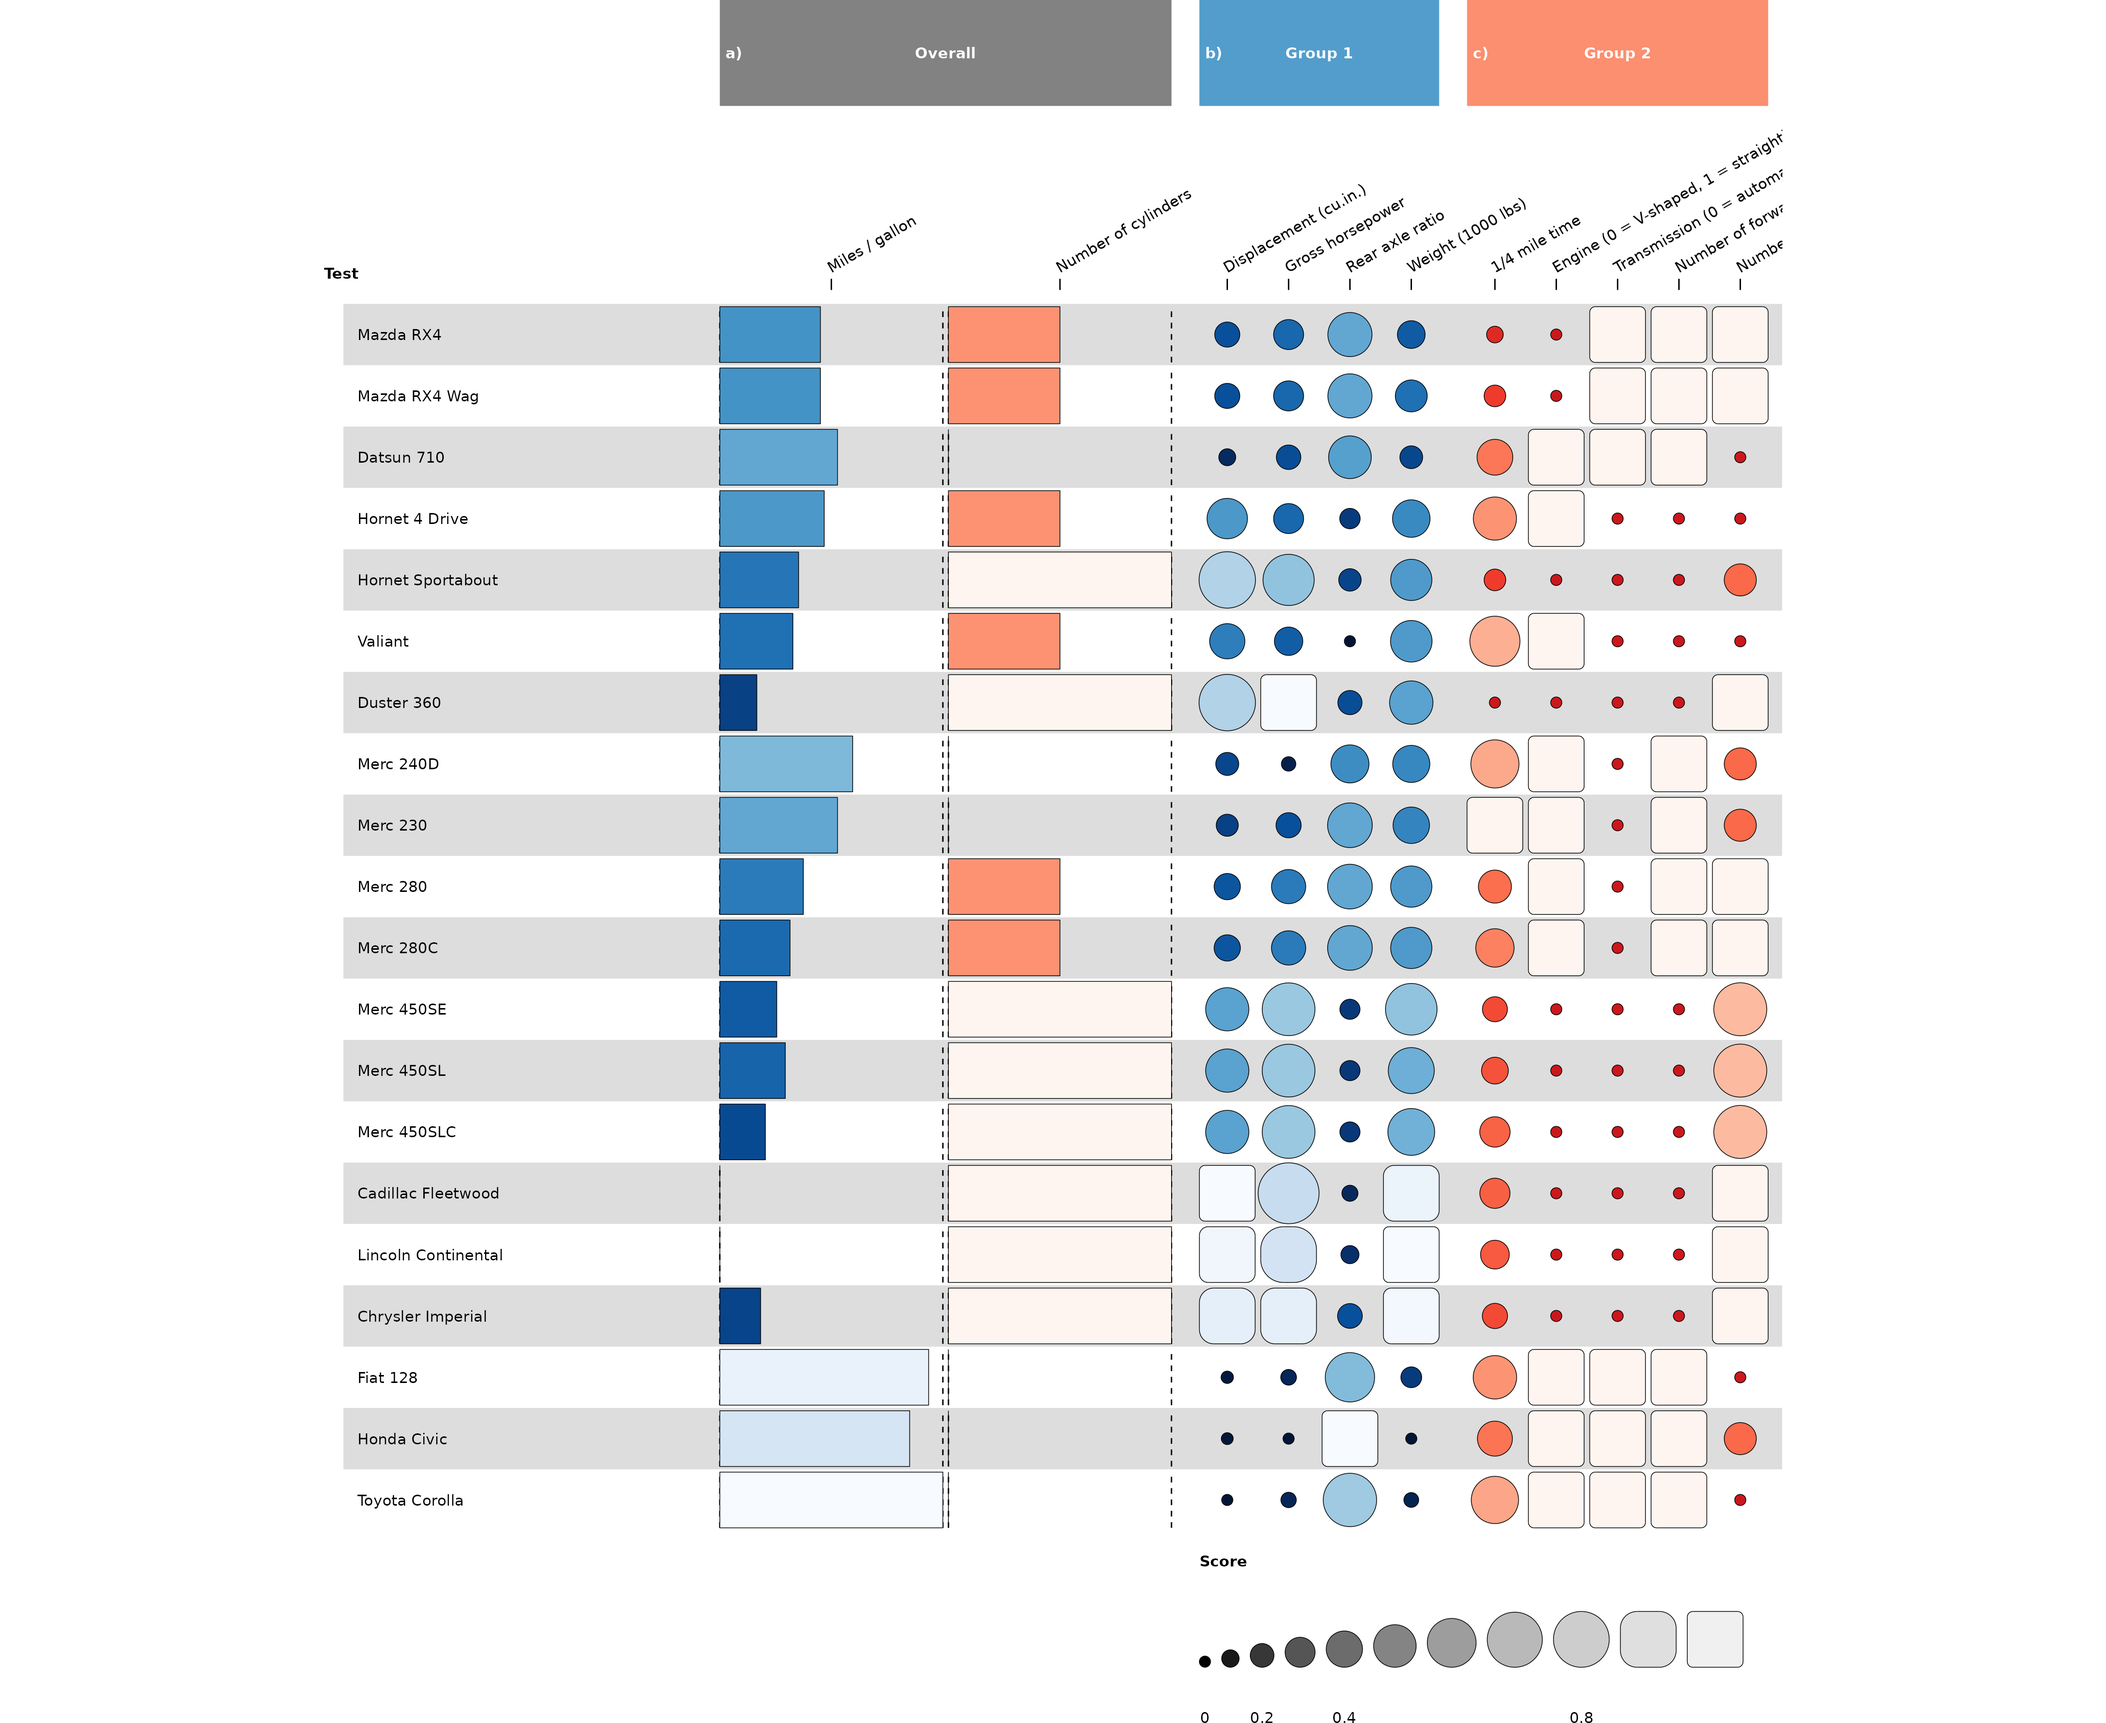
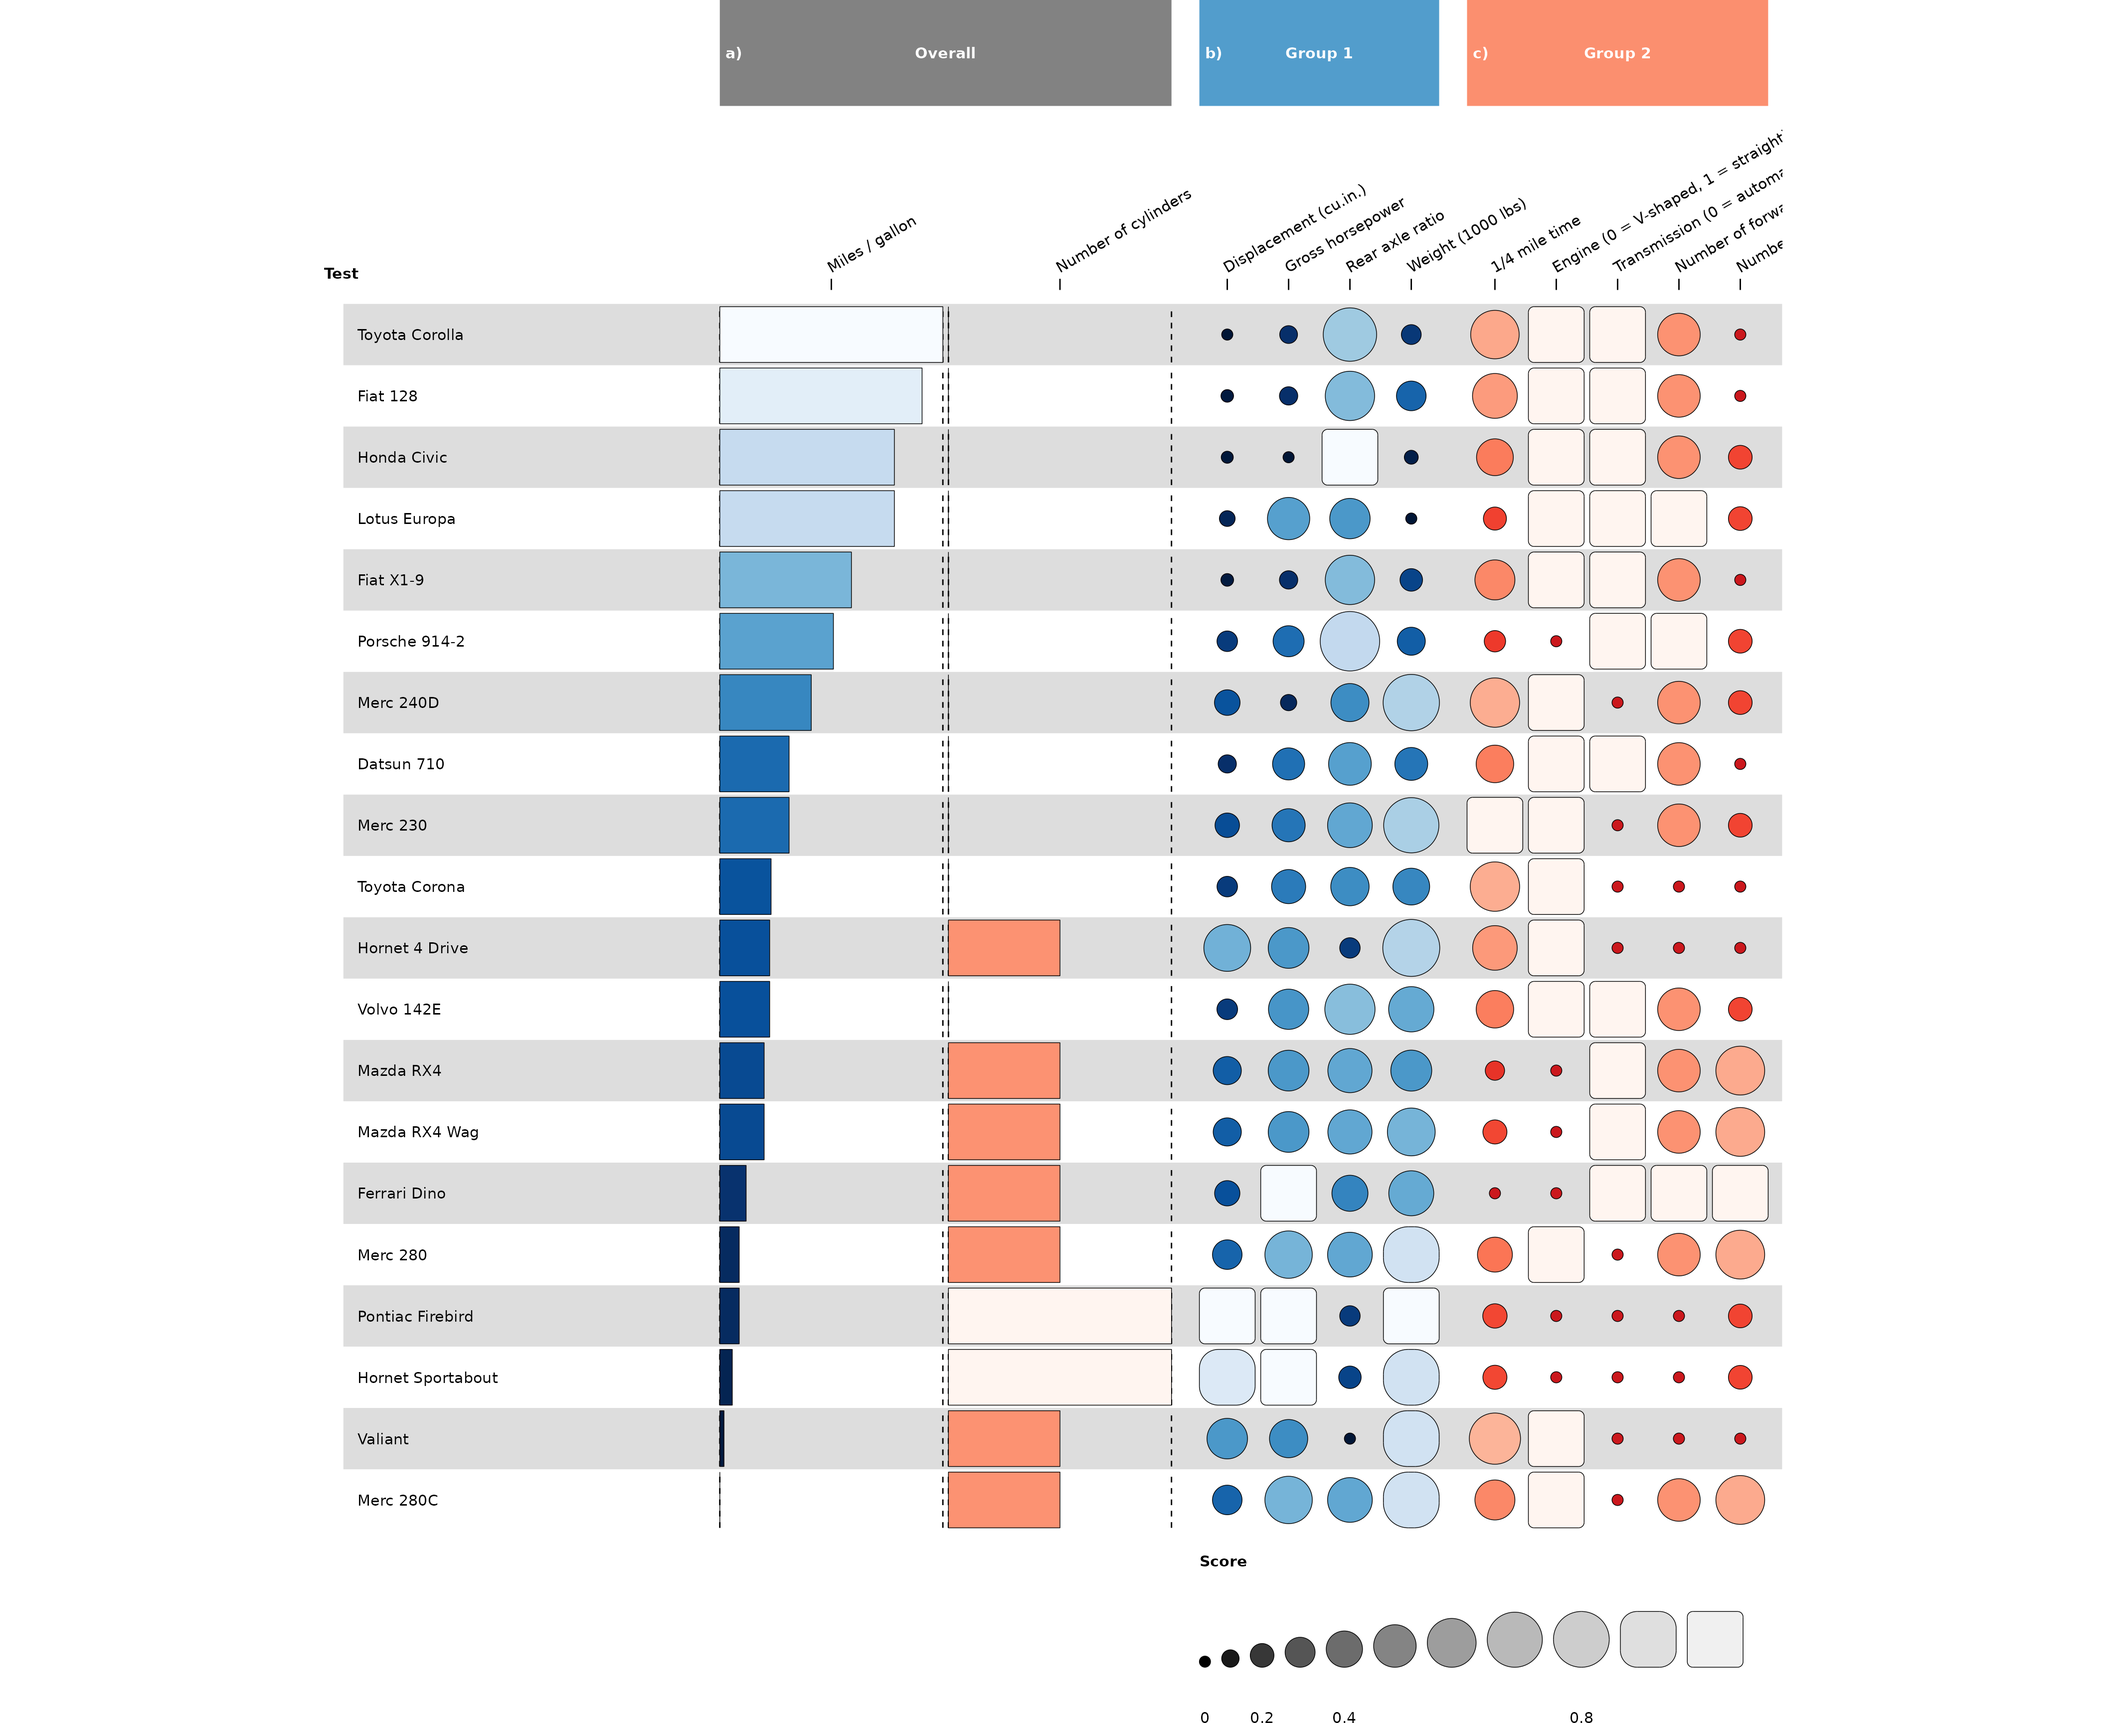
Deploying to gh-pages from @ rcannood/funkyheatmap@4337c4fde194a462f956549b947b045cbd9b7ef0 🚀

diff --git a/articles/mtcars.html b/articles/mtcars.html
@@ -26,7 +26,7 @@
     
     <a class="navbar-brand me-2" href="../index.html">funkyheatmap</a>
 
-    <small class="nav-text text-muted me-auto" data-bs-toggle="tooltip" data-bs-placement="bottom" title="">0.0.0.9000</small>
+    <small class="nav-text text-muted me-auto" data-bs-toggle="tooltip" data-bs-placement="bottom" title="">0.1.0</small>
 
     
     <button class="navbar-toggler" type="button" data-bs-toggle="collapse" data-bs-target="#navbar" aria-controls="navbar" aria-expanded="false" aria-label="Toggle navigation">
@@ -82,6 +82,7 @@
 <span></span>
 <span><span class="va">data</span> <span class="op">&lt;-</span> <span class="va">mtcars</span> <span class="op"><a href="https://magrittr.tidyverse.org/reference/pipe.html" class="external-link">%&gt;%</a></span> </span>
 <span>  <span class="fu"><a href="https://tibble.tidyverse.org/reference/rownames.html" class="external-link">rownames_to_column</a></span><span class="op">(</span><span class="st">"id"</span><span class="op">)</span> <span class="op"><a href="https://magrittr.tidyverse.org/reference/pipe.html" class="external-link">%&gt;%</a></span></span>
+<span>  <span class="fu"><a href="https://dplyr.tidyverse.org/reference/arrange.html" class="external-link">arrange</a></span><span class="op">(</span><span class="fu"><a href="https://dplyr.tidyverse.org/reference/desc.html" class="external-link">desc</a></span><span class="op">(</span><span class="va">mpg</span><span class="op">)</span><span class="op">)</span> <span class="op"><a href="https://magrittr.tidyverse.org/reference/pipe.html" class="external-link">%&gt;%</a></span></span>
 <span>  <span class="fu"><a href="https://rdrr.io/r/utils/head.html" class="external-link">head</a></span><span class="op">(</span><span class="fl">20</span><span class="op">)</span></span></code></pre></div>
 <p>We can plot this data frame without any additional formatting, though
 it doesn’t look very nice:</p>

diff --git a/authors.html b/authors.html
@@ -10,7 +10,7 @@
     
     <a class="navbar-brand me-2" href="index.html">funkyheatmap</a>
 
-    <small class="nav-text text-muted me-auto" data-bs-toggle="tooltip" data-bs-placement="bottom" title="">0.0.0.9000</small>
+    <small class="nav-text text-muted me-auto" data-bs-toggle="tooltip" data-bs-placement="bottom" title="">0.1.0</small>
 
     
     <button class="navbar-toggler" type="button" data-bs-toggle="collapse" data-bs-target="#navbar" aria-controls="navbar" aria-expanded="false" aria-label="Toggle navigation">
@@ -60,13 +60,13 @@
 
       <p>Cannoodt R, Saelens W (2022).
 <em>funkyheatmap: Generating funky heatmaps for benchmarks</em>.
-R package version 0.0.0.9000, <a href="https://rcannood.github.io/funkyheatmap/">https://rcannood.github.io/funkyheatmap/</a>. 
+R package version 0.1.0, <a href="https://rcannood.github.io/funkyheatmap/">https://rcannood.github.io/funkyheatmap/</a>. 
 </p>
       <pre>@Manual{,
   title = {funkyheatmap: Generating funky heatmaps for benchmarks},
   author = {Robrecht Cannoodt and Wouter Saelens},
   year = {2022},
-  note = {R package version 0.0.0.9000},
+  note = {R package version 0.1.0},
   url = {https://rcannood.github.io/funkyheatmap/},
 }</pre>
     </div>

diff --git a/reference/funkyheatmap-package.html b/reference/funkyheatmap-package.html
@@ -16,7 +16,7 @@ ggforce."><!-- mathjax --><script src="https://cdnjs.cloudflare.com/ajax/libs/ma
     
     <a class="navbar-brand me-2" href="../index.html">funkyheatmap</a>
 
-    <small class="nav-text text-muted me-auto" data-bs-toggle="tooltip" data-bs-placement="bottom" title="">0.0.0.9000</small>
+    <small class="nav-text text-muted me-auto" data-bs-toggle="tooltip" data-bs-placement="bottom" title="">0.1.0</small>
 
     
     <button class="navbar-toggler" type="button" data-bs-toggle="collapse" data-bs-target="#navbar" aria-controls="navbar" aria-expanded="false" aria-label="Toggle navigation">

diff --git a/404.html b/404.html
@@ -24,7 +24,7 @@
     
     <a class="navbar-brand me-2" href="https://rcannood.github.io/funkyheatmap/index.html">funkyheatmap</a>
 
-    <small class="nav-text text-muted me-auto" data-bs-toggle="tooltip" data-bs-placement="bottom" title="">0.0.0.9000</small>
+    <small class="nav-text text-muted me-auto" data-bs-toggle="tooltip" data-bs-placement="bottom" title="">0.1.0</small>
 
     
     <button class="navbar-toggler" type="button" data-bs-toggle="collapse" data-bs-target="#navbar" aria-controls="navbar" aria-expanded="false" aria-label="Toggle navigation">

diff --git a/articles/dynbenchmark.html b/articles/dynbenchmark.html
@@ -26,7 +26,7 @@
     
     <a class="navbar-brand me-2" href="../index.html">funkyheatmap</a>
 
-    <small class="nav-text text-muted me-auto" data-bs-toggle="tooltip" data-bs-placement="bottom" title="">0.0.0.9000</small>
+    <small class="nav-text text-muted me-auto" data-bs-toggle="tooltip" data-bs-placement="bottom" title="">0.1.0</small>
 
     
     <button class="navbar-toggler" type="button" data-bs-toggle="collapse" data-bs-target="#navbar" aria-controls="navbar" aria-expanded="false" aria-label="Toggle navigation">

diff --git a/articles/index.html b/articles/index.html
@@ -10,7 +10,7 @@
     
     <a class="navbar-brand me-2" href="../index.html">funkyheatmap</a>
 
-    <small class="nav-text text-muted me-auto" data-bs-toggle="tooltip" data-bs-placement="bottom" title="">0.0.0.9000</small>
+    <small class="nav-text text-muted me-auto" data-bs-toggle="tooltip" data-bs-placement="bottom" title="">0.1.0</small>
 
     
     <button class="navbar-toggler" type="button" data-bs-toggle="collapse" data-bs-target="#navbar" aria-controls="navbar" aria-expanded="false" aria-label="Toggle navigation">

diff --git a/reference/dynbenchmark_data.html b/reference/dynbenchmark_data.html
@@ -10,7 +10,7 @@
     
     <a class="navbar-brand me-2" href="../index.html">funkyheatmap</a>
 
-    <small class="nav-text text-muted me-auto" data-bs-toggle="tooltip" data-bs-placement="bottom" title="">0.0.0.9000</small>
+    <small class="nav-text text-muted me-auto" data-bs-toggle="tooltip" data-bs-placement="bottom" title="">0.1.0</small>
 
     
     <button class="navbar-toggler" type="button" data-bs-toggle="collapse" data-bs-target="#navbar" aria-controls="navbar" aria-expanded="false" aria-label="Toggle navigation">

diff --git a/reference/funky_heatmap.html b/reference/funky_heatmap.html
@@ -10,7 +10,7 @@
     
     <a class="navbar-brand me-2" href="../index.html">funkyheatmap</a>
 
-    <small class="nav-text text-muted me-auto" data-bs-toggle="tooltip" data-bs-placement="bottom" title="">0.0.0.9000</small>
+    <small class="nav-text text-muted me-auto" data-bs-toggle="tooltip" data-bs-placement="bottom" title="">0.1.0</small>
 
     
     <button class="navbar-toggler" type="button" data-bs-toggle="collapse" data-bs-target="#navbar" aria-controls="navbar" aria-expanded="false" aria-label="Toggle navigation">

diff --git a/reference/index.html b/reference/index.html
@@ -10,7 +10,7 @@
     
     <a class="navbar-brand me-2" href="../index.html">funkyheatmap</a>
 
-    <small class="nav-text text-muted me-auto" data-bs-toggle="tooltip" data-bs-placement="bottom" title="">0.0.0.9000</small>
+    <small class="nav-text text-muted me-auto" data-bs-toggle="tooltip" data-bs-placement="bottom" title="">0.1.0</small>
 
     
     <button class="navbar-toggler" type="button" data-bs-toggle="collapse" data-bs-target="#navbar" aria-controls="navbar" aria-expanded="false" aria-label="Toggle navigation">

diff --git a/reference/verify_column_groups.html b/reference/verify_column_groups.html
@@ -10,7 +10,7 @@
     
     <a class="navbar-brand me-2" href="../index.html">funkyheatmap</a>
 
-    <small class="nav-text text-muted me-auto" data-bs-toggle="tooltip" data-bs-placement="bottom" title="">0.0.0.9000</small>
+    <small class="nav-text text-muted me-auto" data-bs-toggle="tooltip" data-bs-placement="bottom" title="">0.1.0</small>
 
     
     <button class="navbar-toggler" type="button" data-bs-toggle="collapse" data-bs-target="#navbar" aria-controls="navbar" aria-expanded="false" aria-label="Toggle navigation">

diff --git a/reference/verify_column_info.html b/reference/verify_column_info.html
@@ -10,7 +10,7 @@
     
     <a class="navbar-brand me-2" href="../index.html">funkyheatmap</a>
 
-    <small class="nav-text text-muted me-auto" data-bs-toggle="tooltip" data-bs-placement="bottom" title="">0.0.0.9000</small>
+    <small class="nav-text text-muted me-auto" data-bs-toggle="tooltip" data-bs-placement="bottom" title="">0.1.0</small>
 
     
     <button class="navbar-toggler" type="button" data-bs-toggle="collapse" data-bs-target="#navbar" aria-controls="navbar" aria-expanded="false" aria-label="Toggle navigation">

diff --git a/reference/verify_data.html b/reference/verify_data.html
@@ -10,7 +10,7 @@
     
     <a class="navbar-brand me-2" href="../index.html">funkyheatmap</a>
 
-    <small class="nav-text text-muted me-auto" data-bs-toggle="tooltip" data-bs-placement="bottom" title="">0.0.0.9000</small>
+    <small class="nav-text text-muted me-auto" data-bs-toggle="tooltip" data-bs-placement="bottom" title="">0.1.0</small>
 
     
     <button class="navbar-toggler" type="button" data-bs-toggle="collapse" data-bs-target="#navbar" aria-controls="navbar" aria-expanded="false" aria-label="Toggle navigation">
